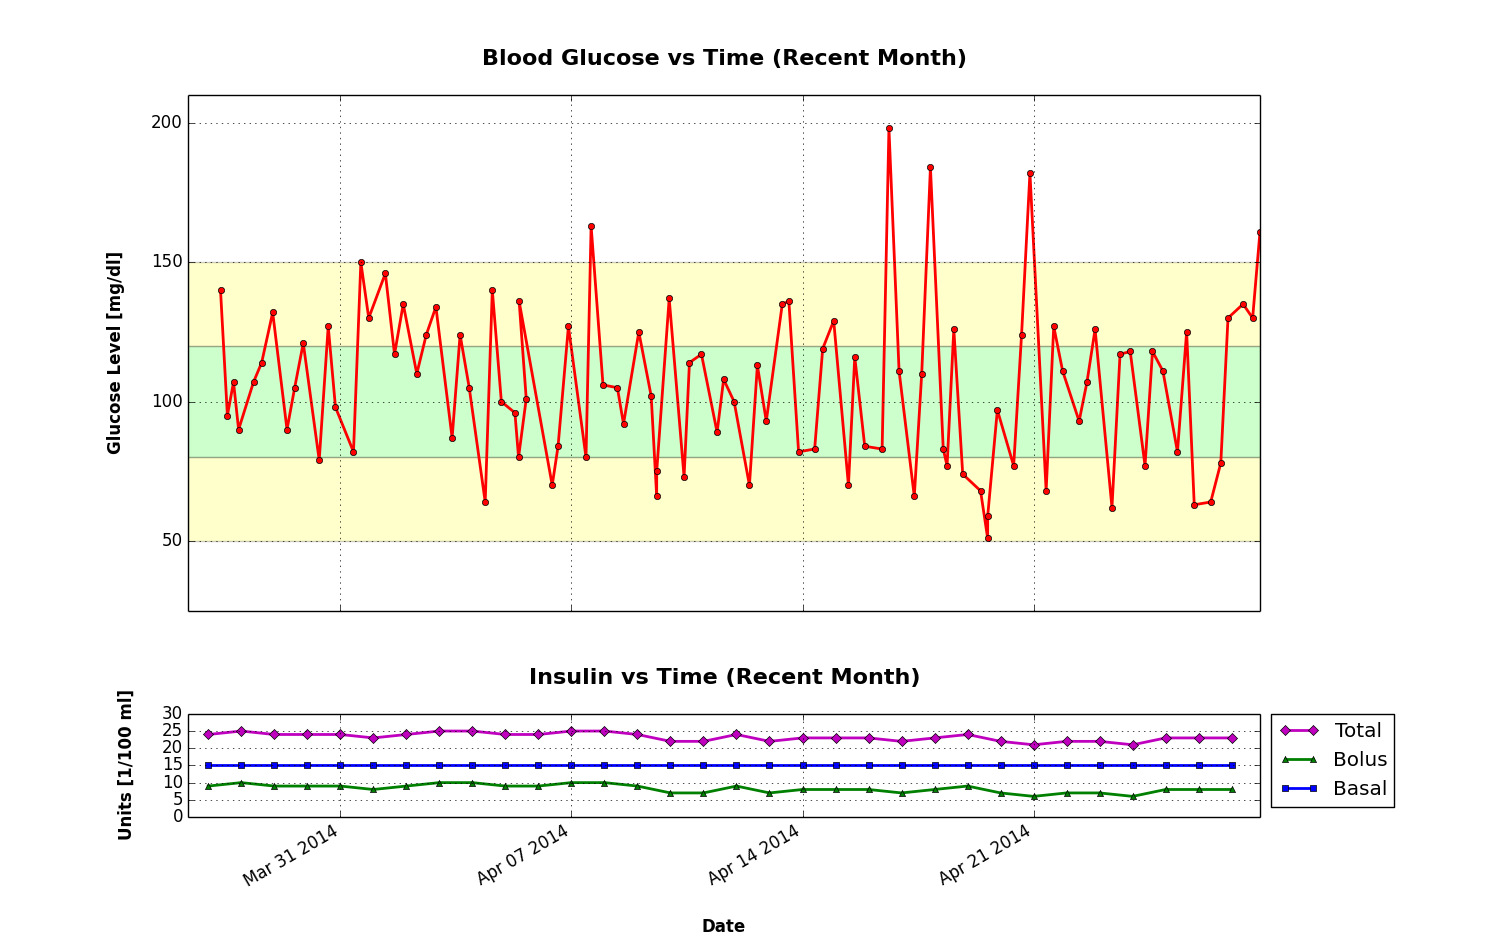
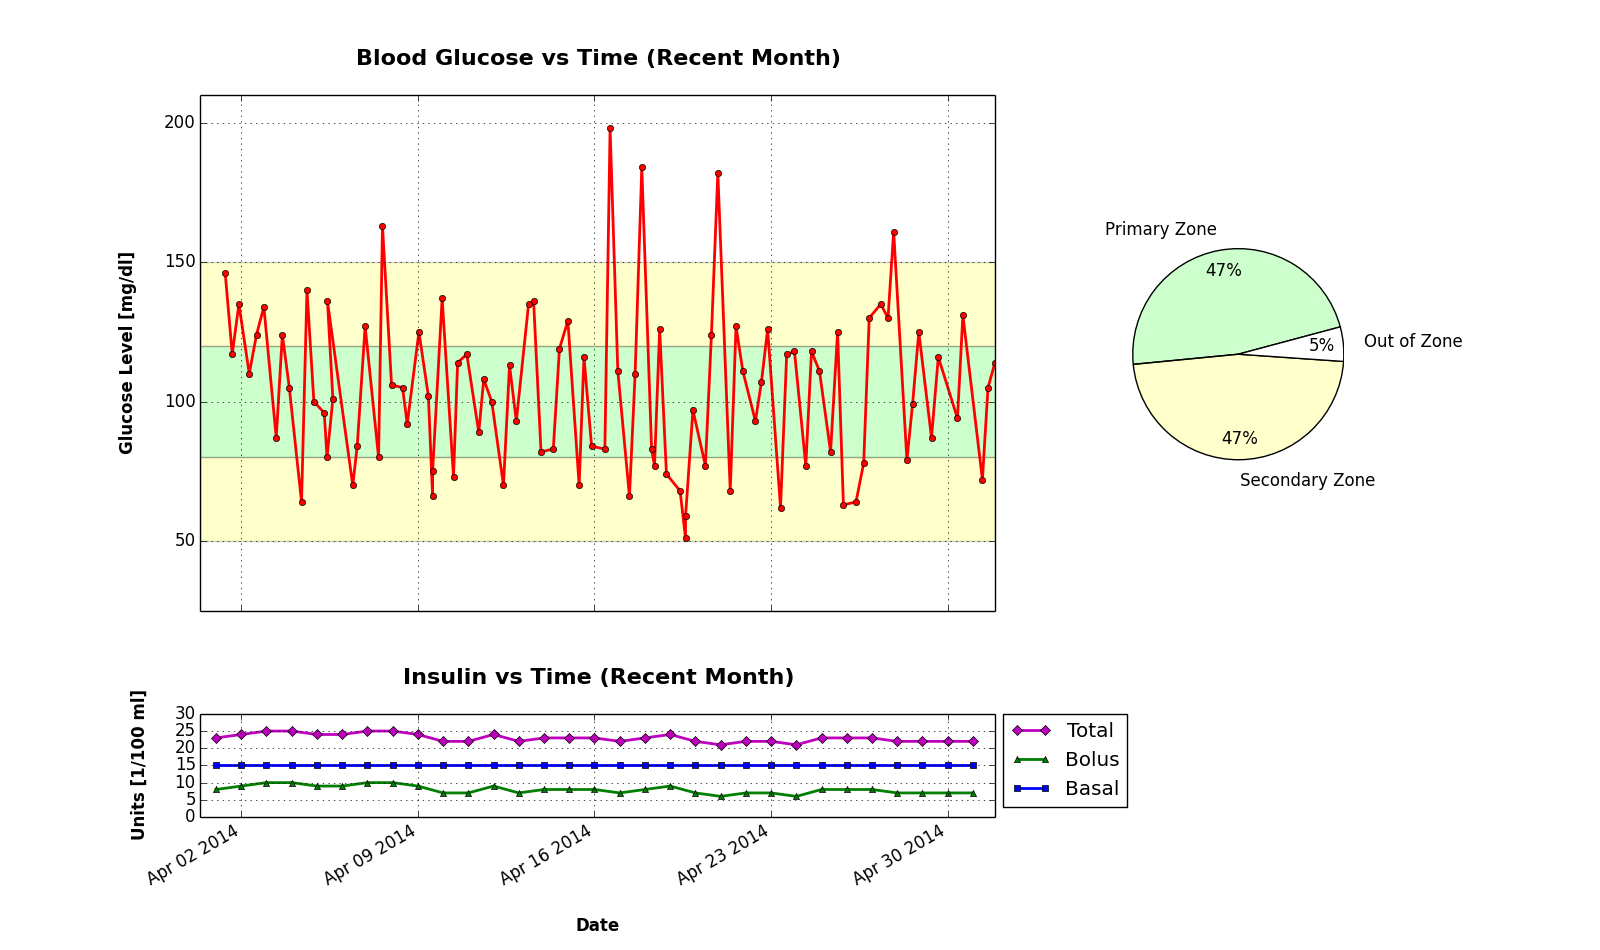
Added Pie Chart & Dosage info to plots

diff --git a/d_monitor.py b/d_monitor.py
@@ -3,6 +3,7 @@
 import datetime
 from dateutil.relativedelta import relativedelta
 import matplotlib.pyplot as plt
+from matplotlib import dates
 import os
 import shutil
 
@@ -18,25 +19,26 @@ def create_file(new_file, new_header):
 def text_data():
     """ Method will collect all formatting regarding data files
     """
-    file_list = ['a1c.dat', 'carb_log.dat', 'food_index.dat', 'glucose.dat',
-                 'insulin.dat', 'supplies.dat', 'weight.dat']
+    file_list = ['a1c.dat', 'carb_log.dat', 'dosage.dat', 'food_index.dat',
+                 'glucose.dat', 'insulin.dat', 'supplies.dat', 'weight.dat']
 
-    class_list = ['A1c', 'Carb', 'Food', 'Glucose', 'Insulin', 'Supplies',
-                  'Weight']
+    class_list = ['A1c', 'Carb', 'Dose', 'Food', 'Glucose', 'Insulin',
+                  'Supplies', 'Weight']
 
-    title_list = ['Hemoglobin A1c Log', 'Carbohydrate Log', 'Food Index',
-                  'Blood Glucose Log', 'Insulin Log', 'Supplies List',
+    title_list = ['Hemoglobin A1c Log', 'Carbohydrate Log', 'Dosage Log',
+                  'Food Index', 'Blood Glucose Log', 'Insulin Log', 'Supplies List',
                   'Weight Log']
 
-    header_list = [['# Date', 'A1C'],
-                   ['# Date', 'Meal', 'Carbohydrates'],
+    header_list = [['#Date', 'A1C'],
+                   ['#Date', 'Meal', 'Carbohydrates'],
+                   ['#Date', 'Dosage Change'],
                    ['#Name', 'Unit of Measure', 'Standard Quantity',
                     'Carbohydrates'],
-                   ['# Date', 'Time', 'Glucose Level', 'Meal'],
-                   ['# Date', 'Time', 'Insulin', 'Type'],
-                   ['# Item', 'Description', 'Unit of Measure',
+                   ['#Date', 'Time', 'Glucose Level', 'Meal'],
+                   ['#Date', 'Time', 'Insulin', 'Type'],
+                   ['#Item', 'Description', 'Unit of Measure',
                     'Quantity Per Month', 'Price Per Month (USD)'],
-                   ['# Date', 'Weight']]
+                   ['#Date', 'Weight']]
 
     header_list = ['\t'.join(x) for x in header_list]
 
@@ -48,6 +50,8 @@ def text_data():
                   ['Enter Date (Year/Month/Day):\t',
                    'Enter Meal (' + ' '.join(meal_list) + '):\t',
                    'Number of Net Carbohydrates (grams):\t'],
+                  ['Enter Date (Year/Month/Day):\t',
+                   'Enter Dosage Change:\t'],
                   ['Enter Food Name:\t',
                    'Enter Unit of Measure:\t',
                    'Enter Standard Quantity:\t',
@@ -121,9 +125,10 @@ def update_prompt(sel_dict):
     """ Method will process the input provided by user
     """
     file_prompt = raw_input('\nEnter the data file you would like to update:'
-                            '\n([A]1c Log, [C]arbohydrate Log, [F]ood Index, '
-                            '[G]lucose Log, [I]nsulin Log, [S]upply List, '
-                            '[W]eight Log or [E]scape):\t').lower()
+                            '\n([A]1c Log, [C]arbohydrate Log, [D]osage Log, '
+                            '[F]ood Index, [G]lucose Log, [I]nsulin Log,'
+                            '[S]upply List, [W]eight Log or '
+                            '[E]scape):\t').lower()
     try:
         update_file = sel_dict[file_prompt[0]]
     except KeyError:
@@ -228,6 +233,16 @@ class Carb:
         return return_date_time(self.date, meal_dict[self.meal])
 
 
+class Dose:
+    """ Class to generate instances of medication dosages
+    """
+    def __init__(self, dose_date, med, dose):
+        self.date = return_date(dose_date)
+
+    def __str__(self):
+        return 'Dosage Change Date:' + '\t'*3 + str(self.date)
+
+
 class Food:
     """ Class to generate instances of food measurements
     """
@@ -320,7 +335,7 @@ def plot_gen(data):
     """
     title_size = 16
     label_size = 12
-    figure_size = (15, 9.5)
+    figure_size = (16, 9.5)
     rgb_yellow = (1, 1, 0)
     rgb_green = (0, 1, 0)
 
@@ -330,12 +345,17 @@ def plot_gen(data):
     for obj in data['a1c.dat'][0]:
         x1a.append(obj.date)
         y1a.append(float(obj.calc_e_ag()))
-    
+
     x1b = []
     y1b = []
     for obj in data['glucose.dat'][0]:
         x1b.append(obj.date)
         y1b.append(int(obj.value))
+
+    x1c = []
+    for obj in data['dosage.dat'][0]:
+        x1c.append(obj.date)
+    x1c = list(set(x1c))
 
     fig1, ax1 = plt.subplots(1, 1, facecolor='white', figsize=figure_size)
     fig1.canvas.set_window_title('Total Blood Glucose History')
@@ -343,6 +363,8 @@ def plot_gen(data):
              label='eAG (Hemoglobin A1c)')
     ax1.plot(x1b, y1b, '-ro', linewidth=2, markersize=5,
              label='Blood Glucose')
+    ax1.vlines(x1c, 0, 1000, color='m', linestyle='dashdot', linewidth=3,
+               label='Medication/Dosage Change')
 
     x1_box = [x1a[0], x1a[0], x1b[-1], x1b[-1]]
     ax1.fill(x1_box, [50, 80, 80, 50], facecolor=rgb_yellow, alpha=0.2)
@@ -367,14 +389,26 @@ def plot_gen(data):
     # Subplot Recent Glucose and Insulin
 
     # TODO Add daily average markers for blood glucose
-    # TODO Create pie chart of time in target zone, secondary zone, and out of zone
     prior_month = datetime.date.today() + relativedelta(months=-1)
     x2a = []
     y2a = []
+    total_count = 0
+    primary_zone = 0
+    secondary_zone = 0
+    out_of_zone = 0
     for obj in data['glucose.dat'][0]:
         if obj.date.date() >= prior_month:
+            total_count += 1
             x2a.append(obj.date)
-            y2a.append(int(obj.value))
+            val = int(obj.value)
+            y2a.append(val)
+
+            if val < 50 or val > 150:
+                out_of_zone += 1
+            elif 80 <= val <= 120:
+                primary_zone += 1
+            else:
+                secondary_zone += 1
 
     insulin_tot = {}
     insulin_bolus = {}
@@ -397,7 +431,7 @@ def plot_gen(data):
     fig2 = plt.figure(facecolor='white', figsize=figure_size)
     fig2.canvas.set_window_title('Previous Month Blood Glucose Levels')
 
-    ax1 = plt.subplot2grid((4, 1), (0, 0), rowspan=3)
+    ax1 = plt.subplot2grid((4, 10), (0, 0), rowspan=3, colspan=7)
     ax1.plot(x2a, y2a, '-ro', linewidth=2, markersize=5)
 
     box_begin = x2a[0] + relativedelta(days=-1)
@@ -413,7 +447,7 @@ def plot_gen(data):
     ax1.set_ylim([25, max(y2a) - max(y2a) % 10 + 20])
     ax1.grid(True)
 
-    ax2 = plt.subplot2grid((4, 1), (3, 0), sharex=ax1)
+    ax2 = plt.subplot2grid((4, 10), (3, 0), colspan=7, sharex=ax1)
     ax2.plot(x2b, y2b_tot, '-mD', linewidth=2, markersize=5, label='Total')
     ax2.plot(x2b, y2b_bolus, '-g^', linewidth=2, markersize=5, label='Bolus')
     ax2.plot(x2b, y2b_basal, '-bs', linewidth=2, markersize=5, label='Basal')
@@ -428,6 +462,16 @@ def plot_gen(data):
     plt.xlabel('\nDate', fontsize=label_size, fontweight='bold')
     fig2.autofmt_xdate()
     fig2.subplots_adjust(hspace=1, bottom=0.14, right=0.84)
+
+    ax3 = plt.subplot2grid((4, 10), (0, 8), rowspan=3, colspan=2)
+    labels = 'Primary Zone ', 'Secondary Zone', 'Out of Zone'
+    sizes = [primary_zone, secondary_zone, out_of_zone]
+    colors = [rgb_green + (0.2,), rgb_yellow + (0.2,), 'white']
+
+    ax3.pie(sizes, labels=labels, colors=colors, autopct='%1.0f%%',
+            pctdistance=0.8, labeldistance=1.2, startangle=15, radius=3)
+    ax3.axis('equal')
+
     # plt.show()
     plt.savefig('BG_Insulin_Month.png')
     plt.close(fig2)
@@ -457,7 +501,7 @@ def main():
 
     # data_dict['file_name'] = [[.str], [.date], [.value]]
     data_dict = {}
-    
+
     # Load Data
     for (file_name, class_name, title, header, prompts) in m_list:
         try:

diff --git a/d_update.py b/d_update.py
@@ -2,16 +2,16 @@
 
 
 def update():
-    date = ['2014/04/27']
-    carb = ['42', '7', '52', '14', '42', '2']
-    glucose = [['8:17', '135', '-'],
-               ['15:14', '130', '-'],
-               ['20:35', '161', '-']]
+    date = ['2014/05/01']
+    carb = ['42', '7', '38', '14', '37', '2']
+    glucose = [['9:00', '72', '-'],
+               ['14:20', '105', '-'],
+               ['20:58', '114', '-']]
     insulin_fast = [['6:30', '2'],
-                    ['12:00', '3'],
+                    ['12:00', '2'],
                     ['18:30', '3']]
     insulin_slow = [['0:00', '15']]
-    weight = [['171']]
+    weight = [['170']]
 
     carb_name = ['breakfast', 'morning_snack', 'lunch', 'afternoon_snack',
                  'dinner', 'evening_snack']
